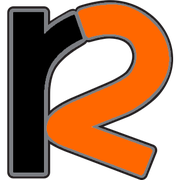
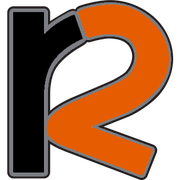
Nothing Changed

Changed region(s): [[0.25, 0.0278, 0.9444, 0.9722]]

diff --git a/css/style.css b/css/style.css
@@ -1,15 +1,16 @@
 /* ==========================================================================
    Team R2 — R2 Fabrication, LLC
-   Clean light theme · brand orange #FF6700 + black
+   Clean light theme · brand orange #E65C00 + black
    ========================================================================== */
 
 :root {
-  --orange: #FF6700;        /* logo orange — use for fills, bars, buttons (with black text) */
-  --orange-dark: #C24E00;   /* orange that passes contrast as text on white */
+  --orange: #E65C00;        /* logo orange (was #FF6700 until 2026-09-28) — fills, bars, buttons with black text (5.3:1), and large text (3.6:1 on white) */
+  --orange-dark: #B84A00;   /* orange for small text: 5.2:1 on white, 4.8:1 on --bg-alt, 4.7:1 on --orange-tint */
   --orange-tint: #FFF1E8;
   --ink: #111111;           /* logo black */
   --ink-2: #3A3B3E;
-  --grey: #7B7D82;          /* logo outline grey */
+  --grey: #7B7D82;          /* logo outline grey — shapes and rules, not small text */
+  --grey-text: #6C6E73;     /* grey for small text: 5.1:1 on white, 4.7:1 on --bg-alt */
   --line: #E4E4E1;
   --bg: #FFFFFF;
   --bg-alt: #F5F5F3;
@@ -54,7 +55,7 @@ ul { padding-left: 1.2em; }
 .brand img { width: 46px; height: 46px; }
 .brand .wordmark { font-family: var(--font-head); font-weight: 800; font-size: 1.55rem; letter-spacing: .04em; line-height: 1; }
 .brand .wordmark span { color: var(--orange); }
-.brand .sub { display: block; font-family: var(--font); font-weight: 500; font-size: .7rem; letter-spacing: .12em; text-transform: uppercase; color: var(--grey); margin-top: 3px; white-space: nowrap; }
+.brand .sub { display: block; font-family: var(--font); font-weight: 500; font-size: .7rem; letter-spacing: .12em; text-transform: uppercase; color: var(--grey-text); margin-top: 3px; white-space: nowrap; }
 
 .nav { display: flex; align-items: center; gap: 4px; }
 .nav a { color: var(--ink); text-decoration: none; font-weight: 600; font-size: .95rem; padding: 8px 11px; white-space: nowrap; border-radius: var(--radius); }
@@ -122,7 +123,7 @@ section { padding: 80px 0; }
 .page-hero.has-img > img { position: absolute; inset: 0; width: 100%; height: 100%; object-fit: cover; }
 .page-hero.has-img h1, .page-hero.has-img .lead { color: #fff; }
 .page-hero.has-img .eyebrow { color: var(--orange); }
-.crumbs { font-size: .85rem; margin-bottom: 14px; color: var(--grey); }
+.crumbs { font-size: .85rem; margin-bottom: 14px; color: var(--grey-text); }
 .page-hero.has-img .crumbs, .page-hero.has-img .crumbs a { color: #cfcfcf; }
 .page-hero .btn-row { margin-top: 26px; }
 
@@ -240,12 +241,12 @@ fieldset { border: 0; padding: 0; margin: 0; }
 .form-section { font-family: var(--font-head); font-size: 1.25rem; font-weight: 700; color: var(--ink); border-bottom: 2px solid var(--line); padding-bottom: 6px; margin: 12px 0 0; grid-column: 1 / -1; }
 label, legend { display: block; font-weight: 600; font-size: .92rem; color: var(--ink); margin-bottom: 6px; }
 .req { color: var(--orange-dark); }
-.hint { font-weight: 400; color: var(--grey); font-size: .85rem; }
+.hint { font-weight: 400; color: var(--grey-text); font-size: .85rem; }
 input[type=text], input[type=email], input[type=tel], input[type=url], input[type=date], input[type=number], select, textarea {
   width: 100%; font: inherit; font-size: 1rem; padding: 11px 13px; border: 1px solid #cfcfca; border-radius: var(--radius); background: #fff; color: var(--ink);
 }
 textarea { min-height: 130px; resize: vertical; }
-input:focus, select:focus, textarea:focus { outline: 3px solid rgba(255,103,0,.3); border-color: var(--orange); }
+input:focus, select:focus, textarea:focus { outline: 3px solid rgba(230,92,0,.3); border-color: var(--orange); }
 .checks { display: flex; flex-wrap: wrap; gap: 8px 18px; }
 .checks label { display: flex; align-items: center; gap: 8px; font-weight: 500; margin: 0; }
 .checks input, .consent input { accent-color: var(--orange); width: 18px; height: 18px; }
@@ -259,7 +260,7 @@ input:focus, select:focus, textarea:focus { outline: 3px solid rgba(255,103,0,.3
 .contact-grid { display: grid; grid-template-columns: 1.6fr 1fr; gap: 40px; align-items: start; }
 @media (max-width: 900px) { .contact-grid { grid-template-columns: 1fr; } }
 .info-block { margin-bottom: 22px; }
-.info-block h3 { font-size: 1.05rem; margin-bottom: 4px; text-transform: uppercase; letter-spacing: .08em; color: var(--grey); font-family: var(--font); }
+.info-block h3 { font-size: 1.05rem; margin-bottom: 4px; text-transform: uppercase; letter-spacing: .08em; color: var(--grey-text); font-family: var(--font); }
 .info-block p { margin: 0; color: var(--ink); font-weight: 500; }
 .map { border: 0; width: 100%; height: 300px; border-radius: var(--radius); }
 

diff --git a/equipment.html b/equipment.html
@@ -11,7 +11,7 @@
 <meta property="og:description" content="Inside R2&#x27;s 80,000 sq. ft. fabrication shop in North Fort Worth: coil line, CNC plasma and laser cutting, two spiral machines, shears, press brakes, and more.">
 <meta property="og:url" content="https://www.teamr2.com/equipment.html">
 <meta property="og:image" content="https://www.teamr2.com/images/hero.jpg">
-<meta name="theme-color" content="#FF6700">
+<meta name="theme-color" content="#E65C00">
 <link rel="icon" type="image/png" sizes="32x32" href="images/icon-32.png">
 <link rel="apple-touch-icon" href="images/icon-180.png">
 <link rel="preconnect" href="https://fonts.googleapis.com">

diff --git a/fabrication-hvac.html b/fabrication-hvac.html
@@ -11,7 +11,7 @@
 <meta property="og:description" content="Custom rectangular duct, spiral and flat oval pipe and fittings, snap lock, and angle rings, fabricated in Fort Worth, with stock items ready for pickup.">
 <meta property="og:url" content="https://www.teamr2.com/fabrication-hvac.html">
 <meta property="og:image" content="https://www.teamr2.com/images/hero.jpg">
-<meta name="theme-color" content="#FF6700">
+<meta name="theme-color" content="#E65C00">
 <link rel="icon" type="image/png" sizes="32x32" href="images/icon-32.png">
 <link rel="apple-touch-icon" href="images/icon-180.png">
 <link rel="preconnect" href="https://fonts.googleapis.com">

diff --git a/fabrication-misc.html b/fabrication-misc.html
@@ -11,7 +11,7 @@
 <meta property="og:description" content="Industrial fabrication up to 1/4 inch plate: dust collector duct, fume and grease exhaust, platforms, handrails, housings, hoppers, cyclones, and ovens.">
 <meta property="og:url" content="https://www.teamr2.com/fabrication-misc.html">
 <meta property="og:image" content="https://www.teamr2.com/images/hero.jpg">
-<meta name="theme-color" content="#FF6700">
+<meta name="theme-color" content="#E65C00">
 <link rel="icon" type="image/png" sizes="32x32" href="images/icon-32.png">
 <link rel="apple-touch-icon" href="images/icon-180.png">
 <link rel="preconnect" href="https://fonts.googleapis.com">

diff --git a/index.html b/index.html
@@ -11,7 +11,7 @@
 <meta property="og:description" content="R2 Fabrication fabricates HVAC ductwork and industrial metal work and installs commercial HVAC systems for general and mechanical contractors across Dallas–Fort Worth.">
 <meta property="og:url" content="https://www.teamr2.com/">
 <meta property="og:image" content="https://www.teamr2.com/images/hero.jpg">
-<meta name="theme-color" content="#FF6700">
+<meta name="theme-color" content="#E65C00">
 <link rel="icon" type="image/png" sizes="32x32" href="images/icon-32.png">
 <link rel="apple-touch-icon" href="images/icon-180.png">
 <link rel="preconnect" href="https://fonts.googleapis.com">

diff --git a/about.html b/about.html
@@ -11,7 +11,7 @@
 <meta property="og:description" content="R2 Fabrication, LLC supplies HVAC ductwork and industrial fabrication, with an install division behind it. Our team has worked every job in the trade.">
 <meta property="og:url" content="https://www.teamr2.com/about.html">
 <meta property="og:image" content="https://www.teamr2.com/images/hero.jpg">
-<meta name="theme-color" content="#FF6700">
+<meta name="theme-color" content="#E65C00">
 <link rel="icon" type="image/png" sizes="32x32" href="images/icon-32.png">
 <link rel="apple-touch-icon" href="images/icon-180.png">
 <link rel="preconnect" href="https://fonts.googleapis.com">

diff --git a/installation-services.html b/installation-services.html
@@ -11,7 +11,7 @@
 <meta property="og:description" content="Commercial HVAC ductwork installation across DFW, backed by R2&#x27;s own fabrication shop. From two-day jobs to multi-month projects.">
 <meta property="og:url" content="https://www.teamr2.com/installation-services.html">
 <meta property="og:image" content="https://www.teamr2.com/images/hero.jpg">
-<meta name="theme-color" content="#FF6700">
+<meta name="theme-color" content="#E65C00">
 <link rel="icon" type="image/png" sizes="32x32" href="images/icon-32.png">
 <link rel="apple-touch-icon" href="images/icon-180.png">
 <link rel="preconnect" href="https://fonts.googleapis.com">

diff --git a/careers.html b/careers.html
@@ -11,7 +11,7 @@
 <meta property="og:description" content="Join R2 Fabrication. We hire sheet metal fabricators, installers, welders, and shop staff in Saginaw / North Fort Worth. See open jobs on Indeed.">
 <meta property="og:url" content="https://www.teamr2.com/careers.html">
 <meta property="og:image" content="https://www.teamr2.com/images/hero.jpg">
-<meta name="theme-color" content="#FF6700">
+<meta name="theme-color" content="#E65C00">
 <link rel="icon" type="image/png" sizes="32x32" href="images/icon-32.png">
 <link rel="apple-touch-icon" href="images/icon-180.png">
 <link rel="preconnect" href="https://fonts.googleapis.com">

diff --git a/contact.html b/contact.html
@@ -11,7 +11,7 @@
 <meta property="og:description" content="Request a bid for HVAC ductwork, industrial fabrication, or installation. Send your project details and drawings link to R2 Fabrication.">
 <meta property="og:url" content="https://www.teamr2.com/contact.html">
 <meta property="og:image" content="https://www.teamr2.com/images/hero.jpg">
-<meta name="theme-color" content="#FF6700">
+<meta name="theme-color" content="#E65C00">
 <link rel="icon" type="image/png" sizes="32x32" href="images/icon-32.png">
 <link rel="apple-touch-icon" href="images/icon-180.png">
 <link rel="preconnect" href="https://fonts.googleapis.com">

diff --git a/privacy-policy.html b/privacy-policy.html
@@ -11,7 +11,7 @@
 <meta property="og:description" content="Privacy policy for www.TeamR2.com and the R2 Fabrication SMS program.">
 <meta property="og:url" content="https://www.teamr2.com/privacy-policy.html">
 <meta property="og:image" content="https://www.teamr2.com/images/hero.jpg">
-<meta name="theme-color" content="#FF6700">
+<meta name="theme-color" content="#E65C00">
 <link rel="icon" type="image/png" sizes="32x32" href="images/icon-32.png">
 <link rel="apple-touch-icon" href="images/icon-180.png">
 <link rel="preconnect" href="https://fonts.googleapis.com">

diff --git a/sms.html b/sms.html
@@ -11,7 +11,7 @@
 <meta property="og:description" content="Terms for the R2 Fabrication order and delivery text message program.">
 <meta property="og:url" content="https://www.teamr2.com/sms.html">
 <meta property="og:image" content="https://www.teamr2.com/images/hero.jpg">
-<meta name="theme-color" content="#FF6700">
+<meta name="theme-color" content="#E65C00">
 <link rel="icon" type="image/png" sizes="32x32" href="images/icon-32.png">
 <link rel="apple-touch-icon" href="images/icon-180.png">
 <link rel="preconnect" href="https://fonts.googleapis.com">

diff --git a/thanks.html b/thanks.html
@@ -11,7 +11,7 @@
 <meta property="og:description" content="Thanks for contacting R2 Fabrication.">
 <meta property="og:url" content="https://www.teamr2.com/thanks.html">
 <meta property="og:image" content="https://www.teamr2.com/images/hero.jpg">
-<meta name="theme-color" content="#FF6700">
+<meta name="theme-color" content="#E65C00">
 <link rel="icon" type="image/png" sizes="32x32" href="images/icon-32.png">
 <link rel="apple-touch-icon" href="images/icon-180.png">
 <link rel="preconnect" href="https://fonts.googleapis.com">
